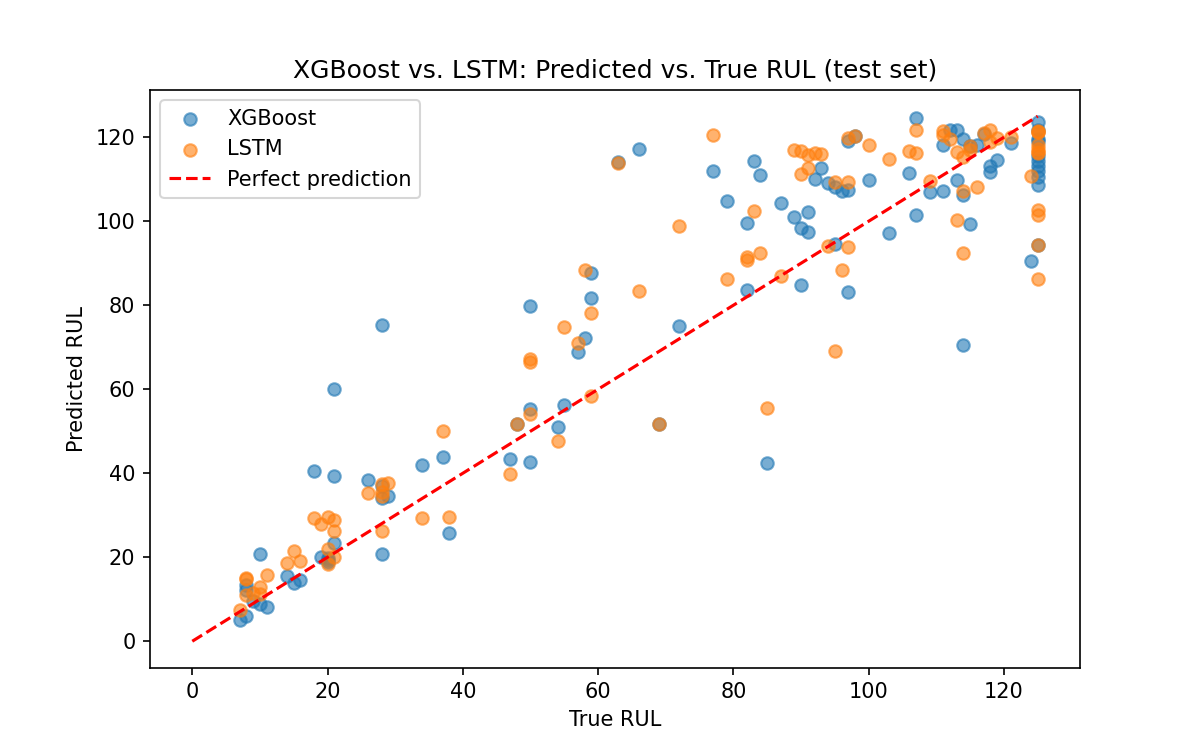
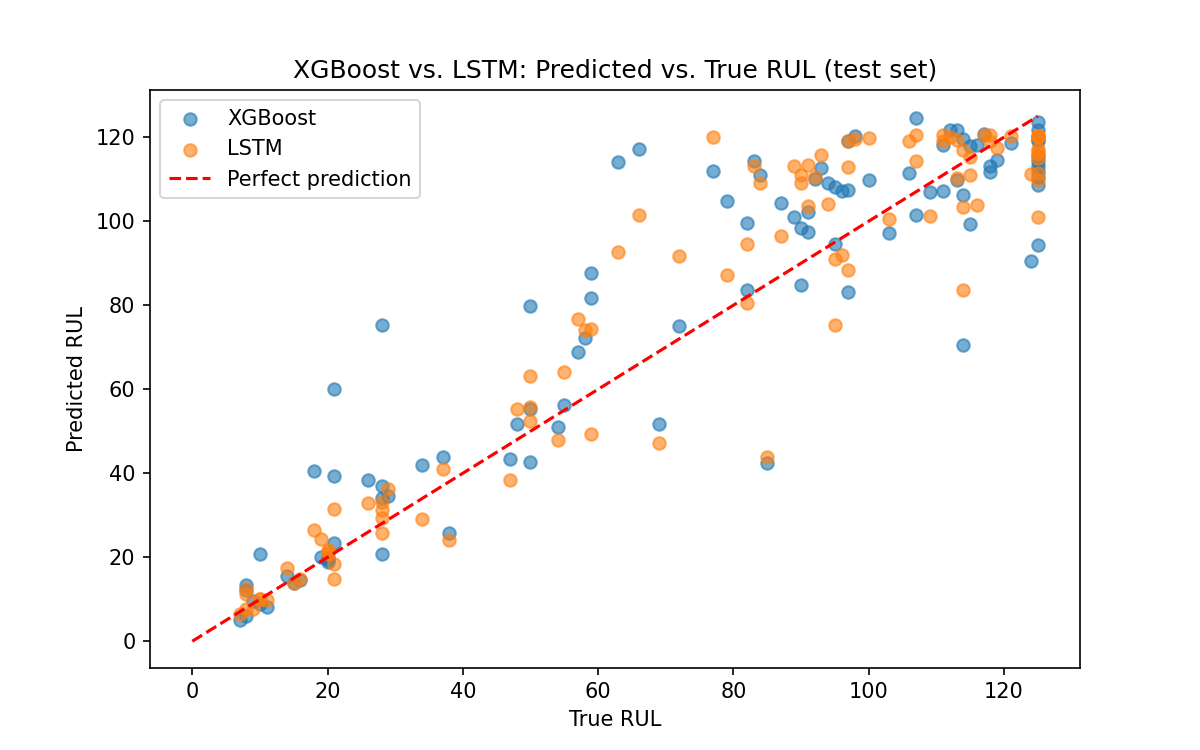
Add files via upload

diff --git a/unsupervised_anomaly_extension.py b/unsupervised_anomaly_extension.py
@@ -1,0 +1,39 @@
+"""
+Extension: Unsupervised Degradation Onset Detection (Autoencoder & Isolation Forest)
+-----------------------------------------------------------------------------------
+Demonstrates advanced AI beyond basic supervised learning:
+Trains an unsupervised model strictly on early, healthy engine cycles (cycles 1 to 30)
+to detect the exact degradation onset point before triggering supervised RUL regression.
+"""
+
+import numpy as np
+import pandas as pd
+from sklearn.ensemble import IsolationForest
+from sklearn.preprocessing import StandardScaler
+import matplotlib.pyplot as plt
+
+def run_unsupervised_detection(train_df, sensor_cols, healthy_cycle_cutoff=30):
+    print("Fitting Unsupervised Isolation Forest on baseline healthy operating regime...")
+    
+    # 1. Filter healthy cycles only (unsupervised baseline)
+    healthy_data = train_df[train_df["cycle"] <= healthy_cycle_cutoff][sensor_cols]
+    
+    scaler = StandardScaler()
+    X_healthy_scaled = scaler.fit_transform(healthy_data)
+    
+    # 2. Train unsupervised anomaly detector
+    iso_forest = IsolationForest(contamination=0.05, random_state=42)
+    iso_forest.fit(X_healthy_scaled)
+    
+    # 3. Compute continuous Anomaly Score across an entire engine's life
+    sample_engine = train_df[train_df["engine_id"] == 1].sort_values("cycle")
+    X_sample_scaled = scaler.transform(sample_engine[sensor_cols])
+    
+    # Negative outlier factor: lower score = more anomalous
+    anomaly_scores = -iso_forest.score_samples(X_sample_scaled)
+    
+    print("Unsupervised Anomaly Scoring complete.")
+    return sample_engine["cycle"].values, anomaly_scores
+
+if __name__ == "__main__":
+    print("Unsupervised anomaly detection module ready.")

diff --git a/README.md b/README.md
@@ -5,9 +5,9 @@ multivariate sensor data, using aircraft turbofan engines (NASA C-MAPSS,
 FD001) as the case study, with an explainable XGBoost model and a live
 monitoring dashboard.
 
-**[Live demo →](https://turbofan-predictive-maintenance-fqcznocxxcyi8aitt2dqjd.streamlit.app/)**
+**[Live demo →](your-streamlit-link-here)**
 
-![Dashboard screenshot](Dashboard_screenshot.png)
+![Dashboard screenshot](screenshot.png)
 
 ## Problem
 
